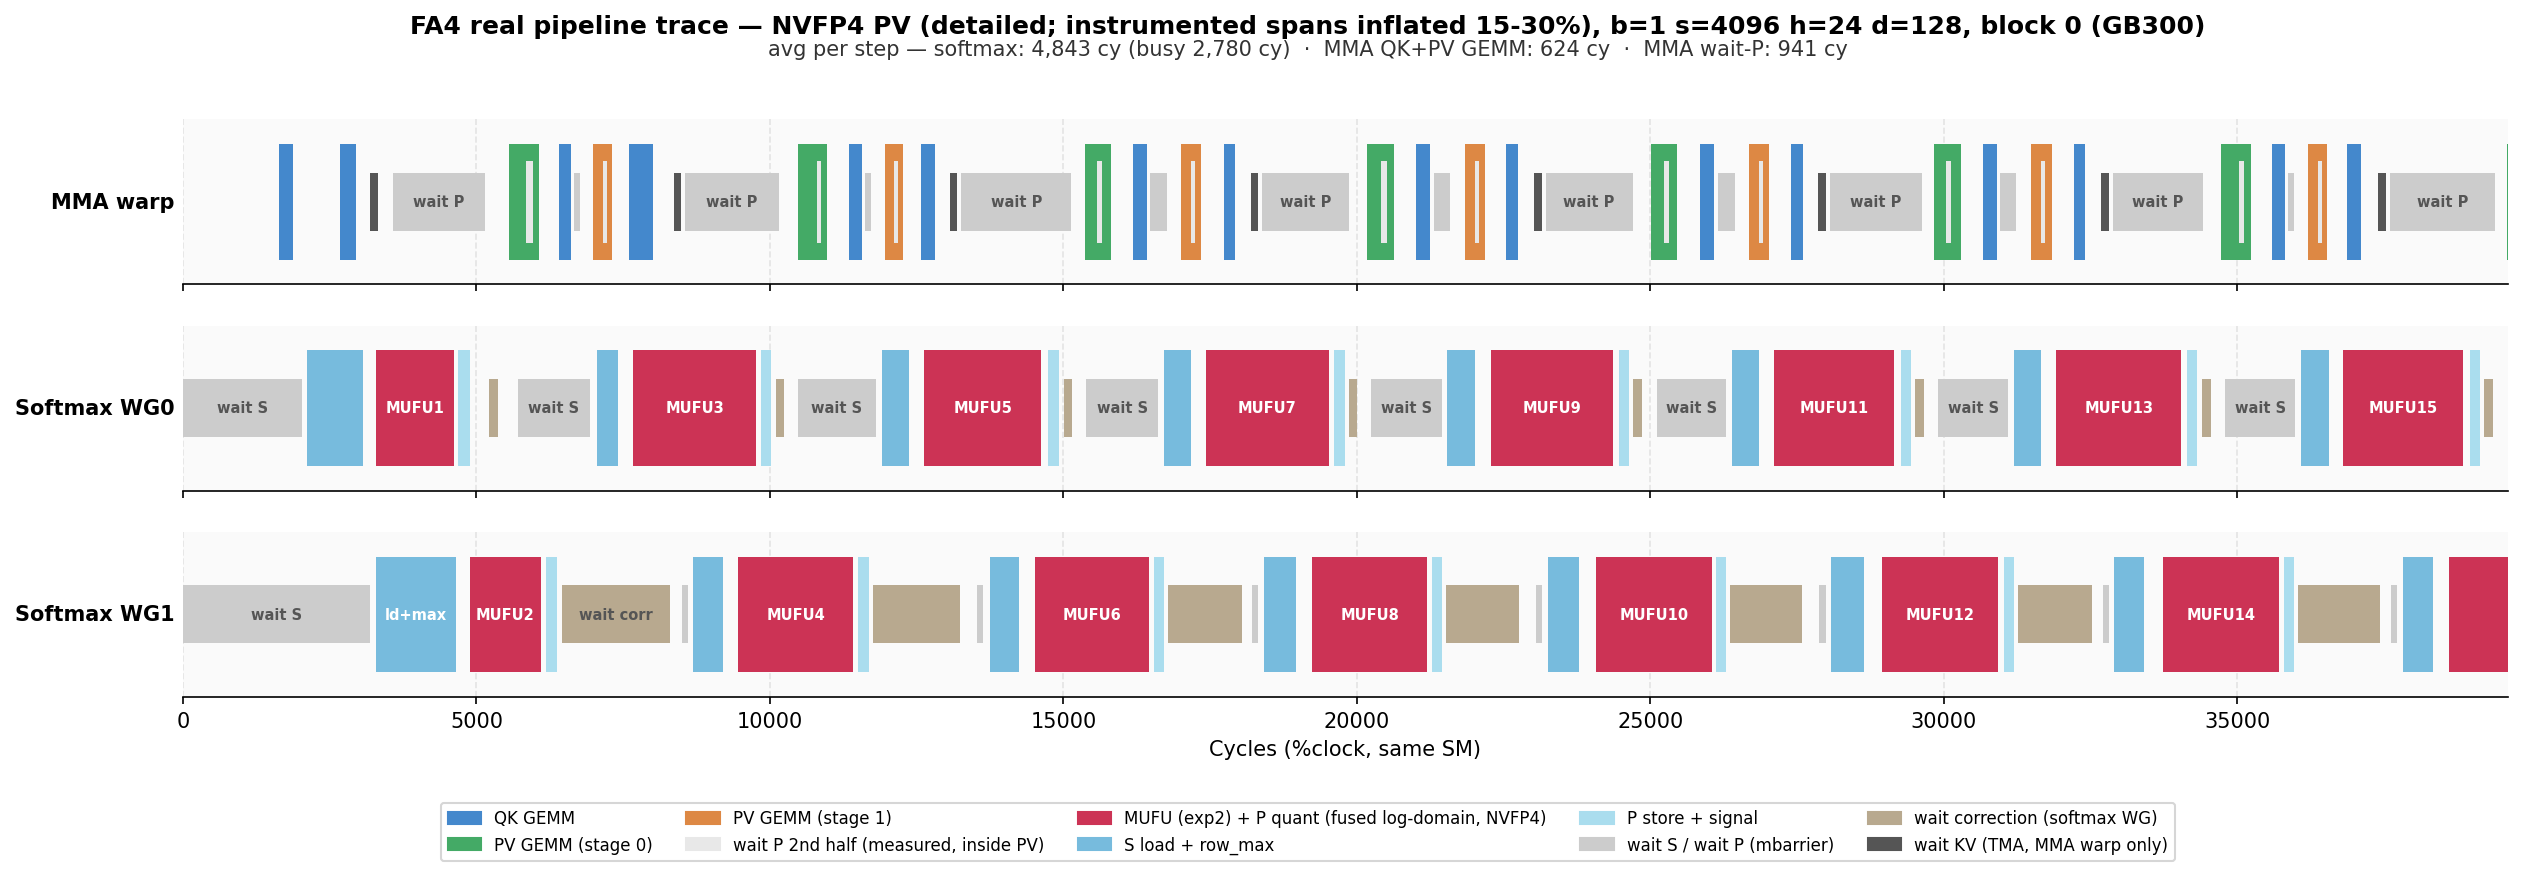
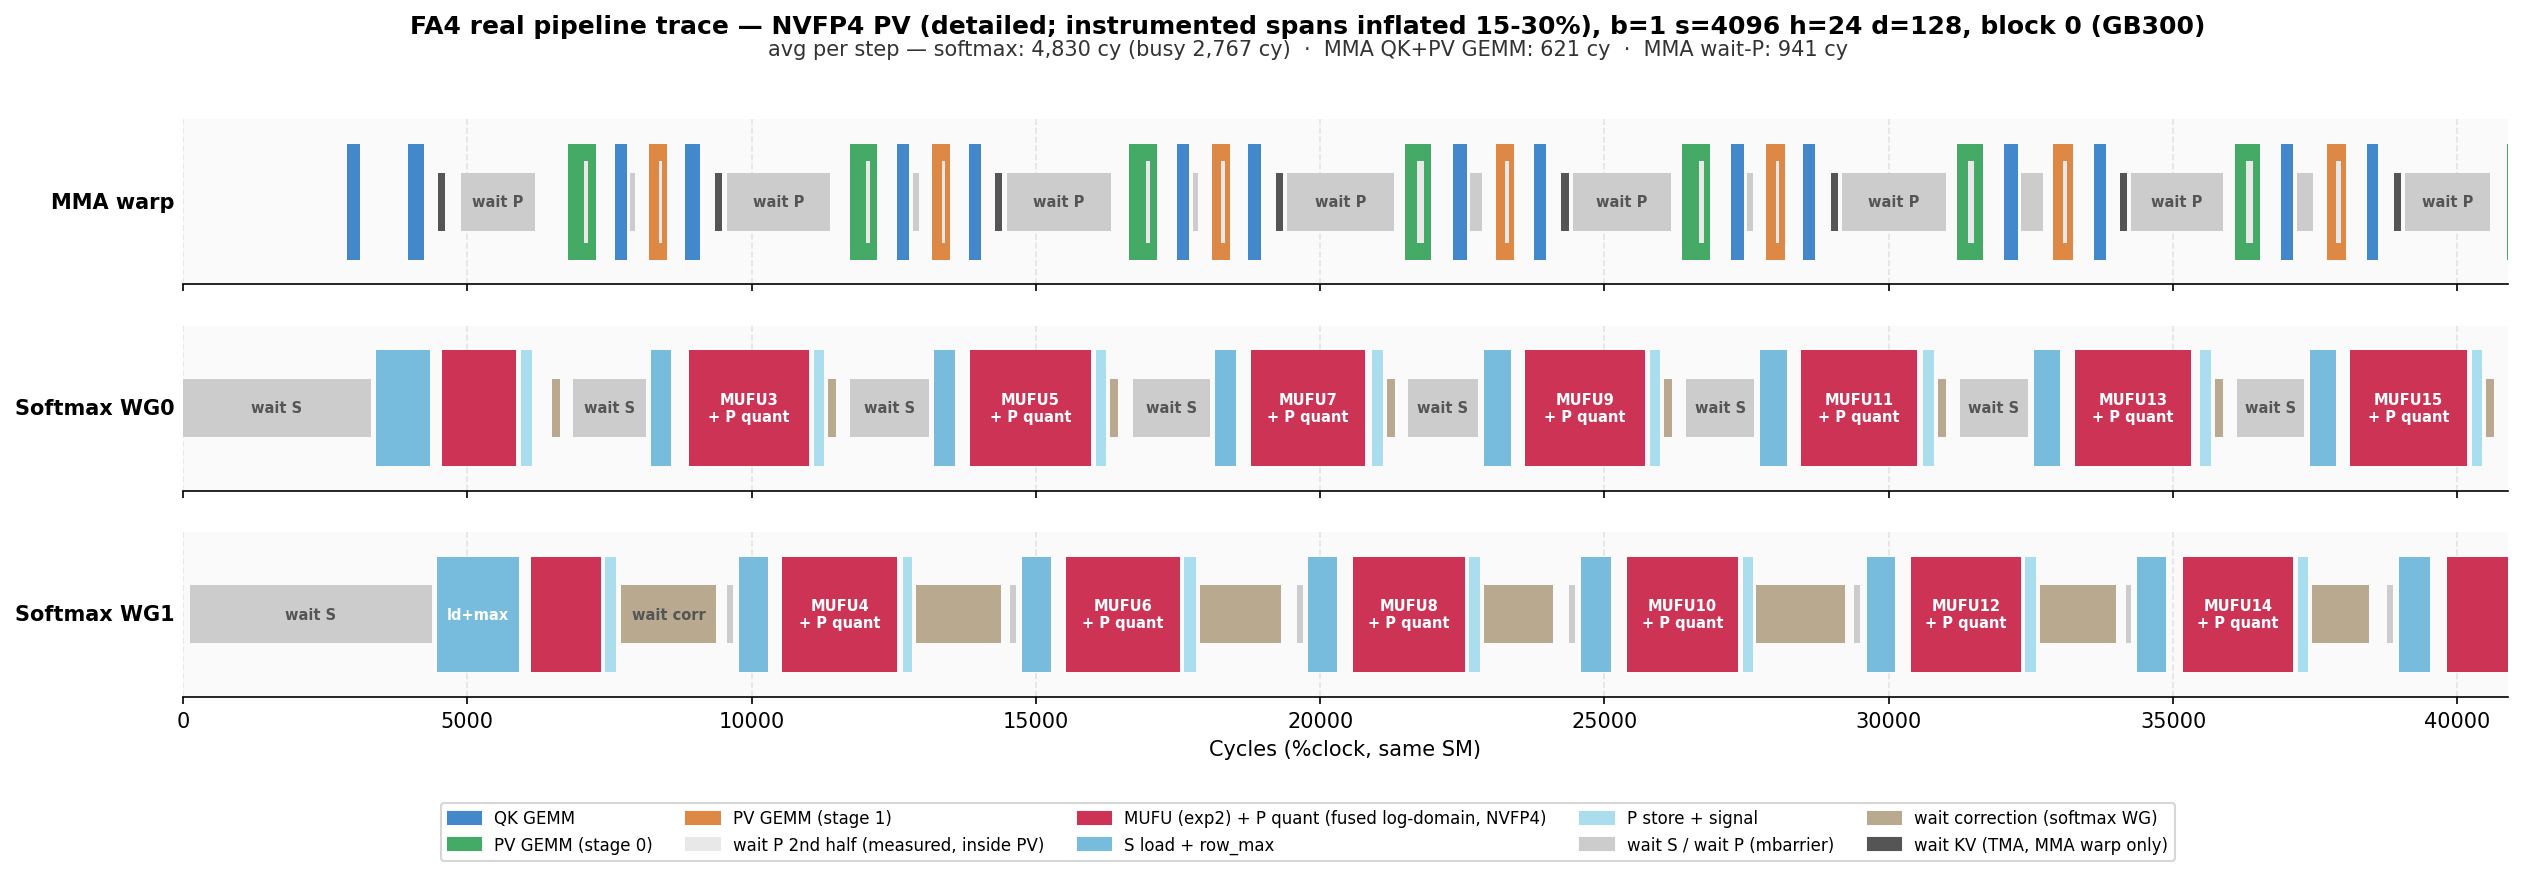
docs: two-line fused box label — "MUFU{n}\n+ P quant" (NVFP4/MXFP8 detailed)
Keeps the iteration number alone on the first line; width gate now uses
the widest line for multi-line labels.

diff --git a/flash_attn/cute/debug/trace_pipeline.py b/flash_attn/cute/debug/trace_pipeline.py
@@ -242,6 +242,10 @@ def render(spans_by_bg, block, output_path, title, start_iter, num_iters,
                 n = counters[evt]
                 glob = 2 * (n - 1) + (1 if grp == fa4_prof.GRP_SOFTMAX0 else 2)
                 label = f"{label}{glob}"
+                # Fused log-domain box: second line names the quant phase so
+                # the iteration number stays on its own (clean) line.
+                if fused_exp_quant and evt == fa4_prof.EVT_SOFTMAX_QUANT:
+                    label = f"{label}\n+ P quant"
             if isinstance(color, tuple):
                 color = color[0]
 
@@ -263,7 +267,9 @@ def render(spans_by_bg, block, output_path, title, start_iter, num_iters,
             # (~2550 usable px at figsize 20in x 150dpi).
             bar_px = vis_dur * 2550.0 / (w1 - w0)
             dark_text = is_wait or evt == fa4_prof.EVT_PV_WAIT_P2
-            if label and bar_px >= 10 * len(label) + 8:
+            # Width gate uses the widest line (labels may be multi-line).
+            label_w = max((len(ln) for ln in label.split("\n")), default=0)
+            if label and bar_px >= 10 * label_w + 8:
                 ax.text(vis_start - w0 + vis_dur / 2, 0.5, label,
                         ha="center", va="center", fontsize=7,
                         color="#555555" if dark_text else "white",
